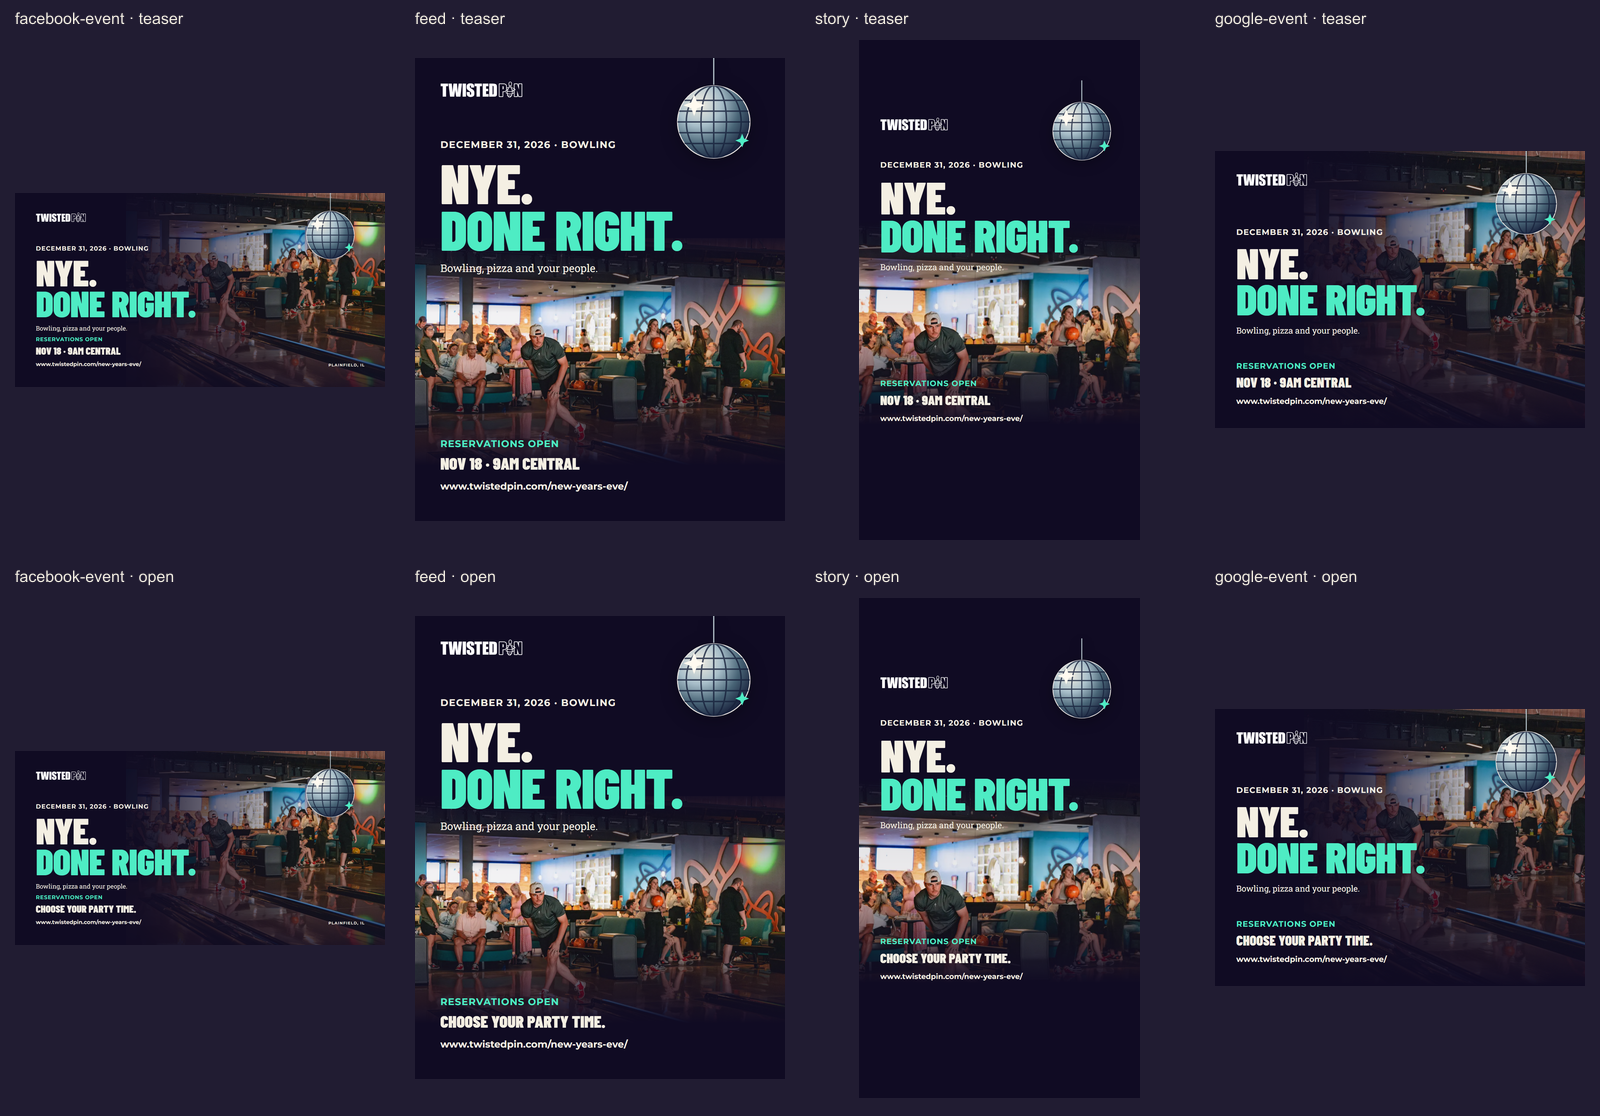
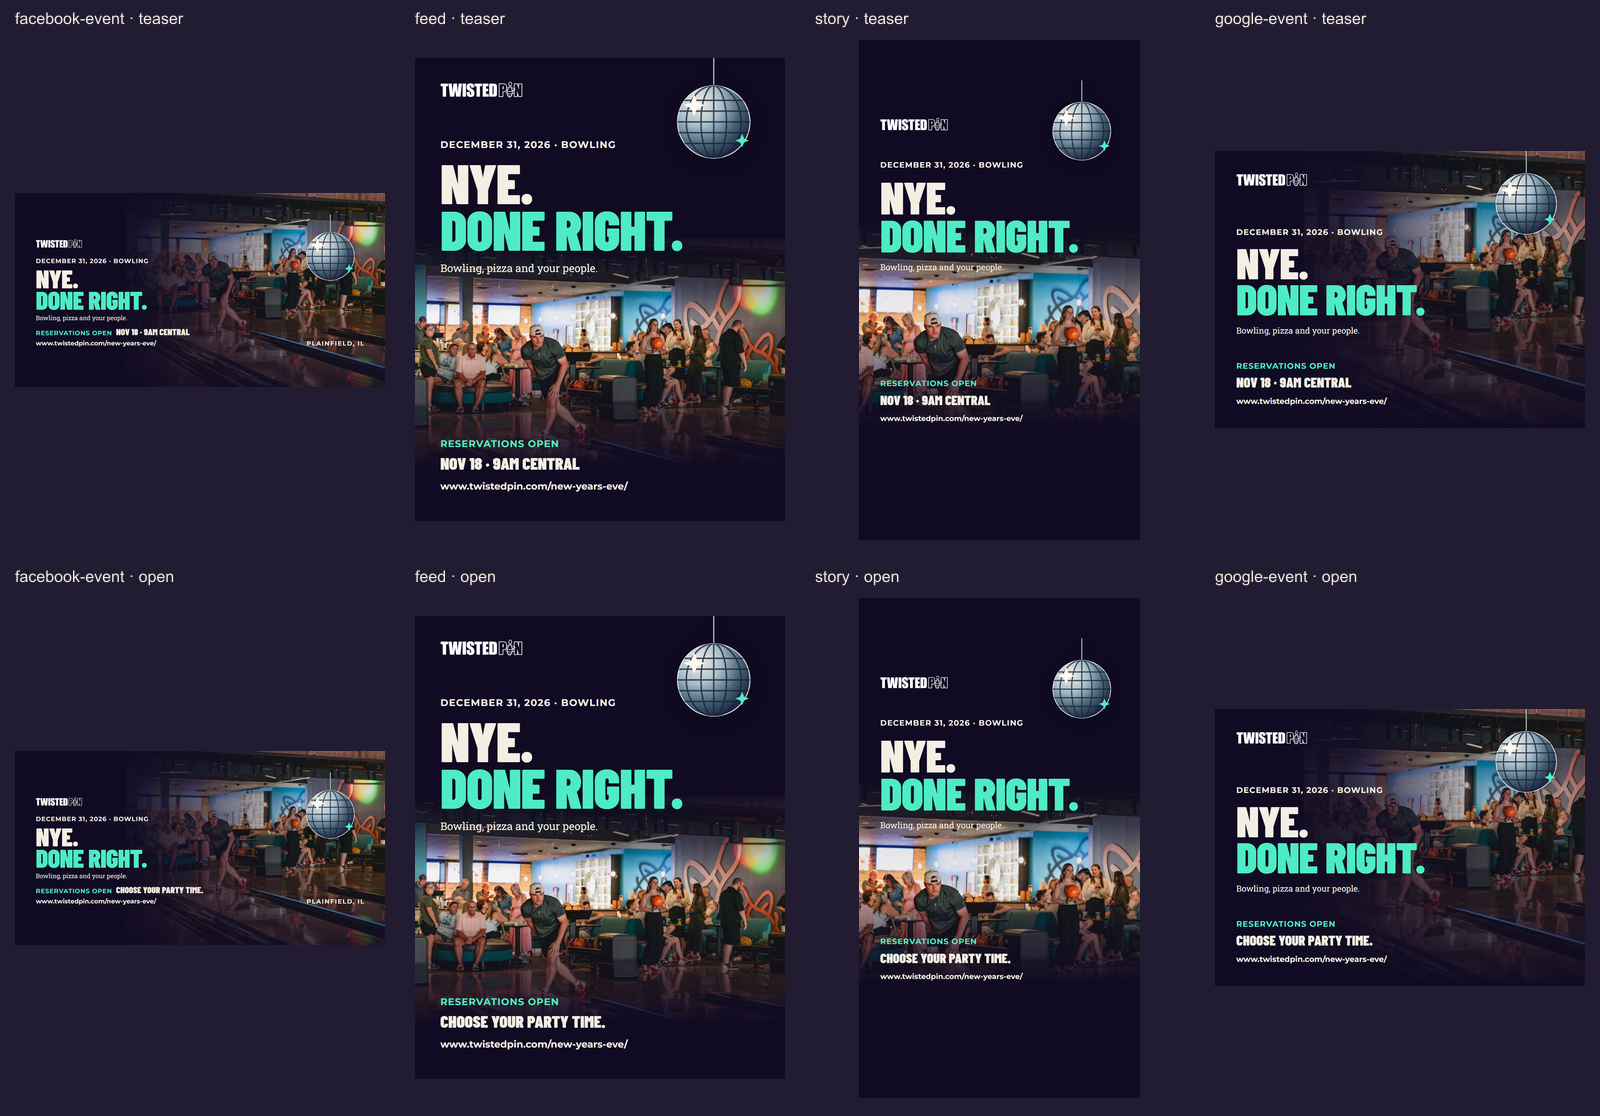
Fix NYE Facebook event cover crop margins

diff --git a/Context/marketing/nye-2026/artwork/campaign.html b/Context/marketing/nye-2026/artwork/campaign.html
@@ -26,6 +26,20 @@
     .detail { margin: 0; font: 900 53px/1.1 Barlow, sans-serif; text-transform: uppercase; }
     .url { margin: 22px 0 0; font: 700 28px/1.3 Montserrat, sans-serif; }
     .place { position: absolute; right: 105px; bottom: 100px; margin: 0; font: 700 20px/1.25 Montserrat, sans-serif; letter-spacing: .12em; }
+    /* Facebook creation-dialog crop observed by Jon: centered ~2.7:1.
+       Keep essential copy inside y=200..805 on this 1920x1005 canvas.
+       These are conservative artwork margins, not a Meta-certified safe zone. */
+    .facebook-cover .logo { top: 210px; width: 240px; }
+    .facebook-cover .mirror { top: 110px; }
+    .facebook-cover .headline { top: 332px; }
+    .facebook-cover .eyebrow { margin-bottom: 14px; }
+    .facebook-cover h1 { font-size: 132px; }
+    .facebook-cover .subhead { margin-top: 16px; }
+    .facebook-cover .action { bottom: 205px; display: grid; grid-template-columns: max-content max-content; gap: 12px 20px; align-items: baseline; }
+    .facebook-cover .status { margin: 0; font-size: 32px; }
+    .facebook-cover .detail { font-size: 46px; }
+    .facebook-cover .url { grid-column: 1 / -1; margin: 0; font-size: 32px; }
+    .facebook-cover .place { bottom: 205px; font-size: 32px; }
     .feed .photo { top: 525px; width: 100%; height: 825px; object-position: 50% 55%; }
     .feed .shade { background: linear-gradient(180deg, #100b23 0%, #100b23 38%, rgba(16,11,35,.05) 55%, rgba(16,11,35,.04) 66%, #100b23 88%); }
     .feed .logo { left: 74px; top: 40px; width: 240px; }

diff --git a/Context/marketing/nye-2026/README.md b/Context/marketing/nye-2026/README.md
@@ -21,6 +21,12 @@ Open [the local review gallery](review.html) for individual images, or use the e
 
 These dimensions are composition choices, not a claim that every placement requires them. Use the portrait feed asset for feed posts; do not rely on an automatic crop of the wide event cover. Use the teaser Google image in an **Update**, then the open image in an **Event**. Publishing-interface crop and overlay previews remain necessary, especially on Meta. The Story leaves generous empty space above and below the important content; this is a house margin, not a certified platform safe zone. Put its link sticker in the clear area below the printed URL and verify the actual overlay preview.
 
+## Facebook event cover correction, October 22
+
+Jon approved creating the Facebook event on November 18 when reservations open. Use `exports/facebook-event-reservations-open.png` for that event; the teaser remains available for pre-opening promotion. Both 1920 x 1005 covers now place all essential copy within a conservative central band, preserving the approved photograph, logo, Mirrorball and wording. Supporting copy stays at 32px or larger. The logo, URL and complete Mirrorball circle survive the centered approximately 2.7:1 crop observed in Jon's Jingle creation-dialog screenshot.
+
+The renderer checks those bounds and writes 600px crop previews into `qa/`. These simulate that one creation-dialog crop; no Facebook event was uploaded, published or scheduled, and they are not a guarantee for every placement. Inspect Facebook's actual reposition preview before saving. Upload the full-size export, not the QA crop. The website share image and the six feed/Story/Google exports are unchanged. Updated copies replace the matching files in the Desktop `NYE 2026` phase folders and its overview image.
+
 ## Timing and factual basis
 
 The teaser runs before **November 18, 2026, 9am Central** (`2026-11-18T15:00:00Z`). It shows the December 31 event date and the sales-opening time, with no party times or prices. Switch to the open version only once reservations have opened; this pack does not schedule or publish anything. Remove time-sensitive creative when it is no longer bookable. Availability and current purchasing rules remain on the reservation page.

diff --git a/Context/history/2026-website-decisions.md b/Context/history/2026-website-decisions.md
@@ -1,3 +1,9 @@
+## 2026-10-22 - Facebook event cover crop correction
+
+Jon asked to fix the NYE event cover after Jingle's Facebook creation dialog exposed a tighter crop, and confirmed the Facebook event will be created November 18 when reservations open. Keep both 1920 x 1005 phase exports and all approved source artwork/wording; move the logo, headline, opening line, URL and location into a conservative central band, with the full Mirrorball circle visible. Extend the existing local renderer with the observed centered 2.7:1 crop proof and small preview files. This is artwork-only delivery on the feature branch, with no Website deployment, Facebook publication, sales or campaign schedule change.
+
+Verification: both full exports and 600px crop previews pass font, bounds and no-overflow checks plus independent visual review. Essential text stays within y210–800, with the complete Mirrorball circle inside the simulated crop. A Facebook-only template class isolates the existing website share-card renderer. All six feed/Story/Google exports retain their original hashes. Both Desktop phase-folder covers and the overview were replaced and hash-verified; originals, source and crop evidence stay in the project. The actual Facebook upload/reposition preview remains a final publishing check, not claimed tested here.
+
 ## 2026-10-22 - Final NYE copy integration and dedicated share image
 
 After Jingle released `8eeb976`, integrate the saved singular lane/pizza/pitcher corrections and both events' Desktop delivery records on that exact successor. The public NYE page now has its own 1200 × 630 share card using the existing approved photograph, logo, typography and Mirrorball code artwork. Its evergreen text does not announce sales or assert remaining inventory. The renderer blocks network requests and records asset hashes; the final 104 KB JPEG is tracked with its editable source. No checkout, inventory, sales opening or homepage campaign policy changes are included. The paid NYE rehearsal and its original operations origin remain untouched. Combined checks, page-speed measurements and release proof will be recorded below.
